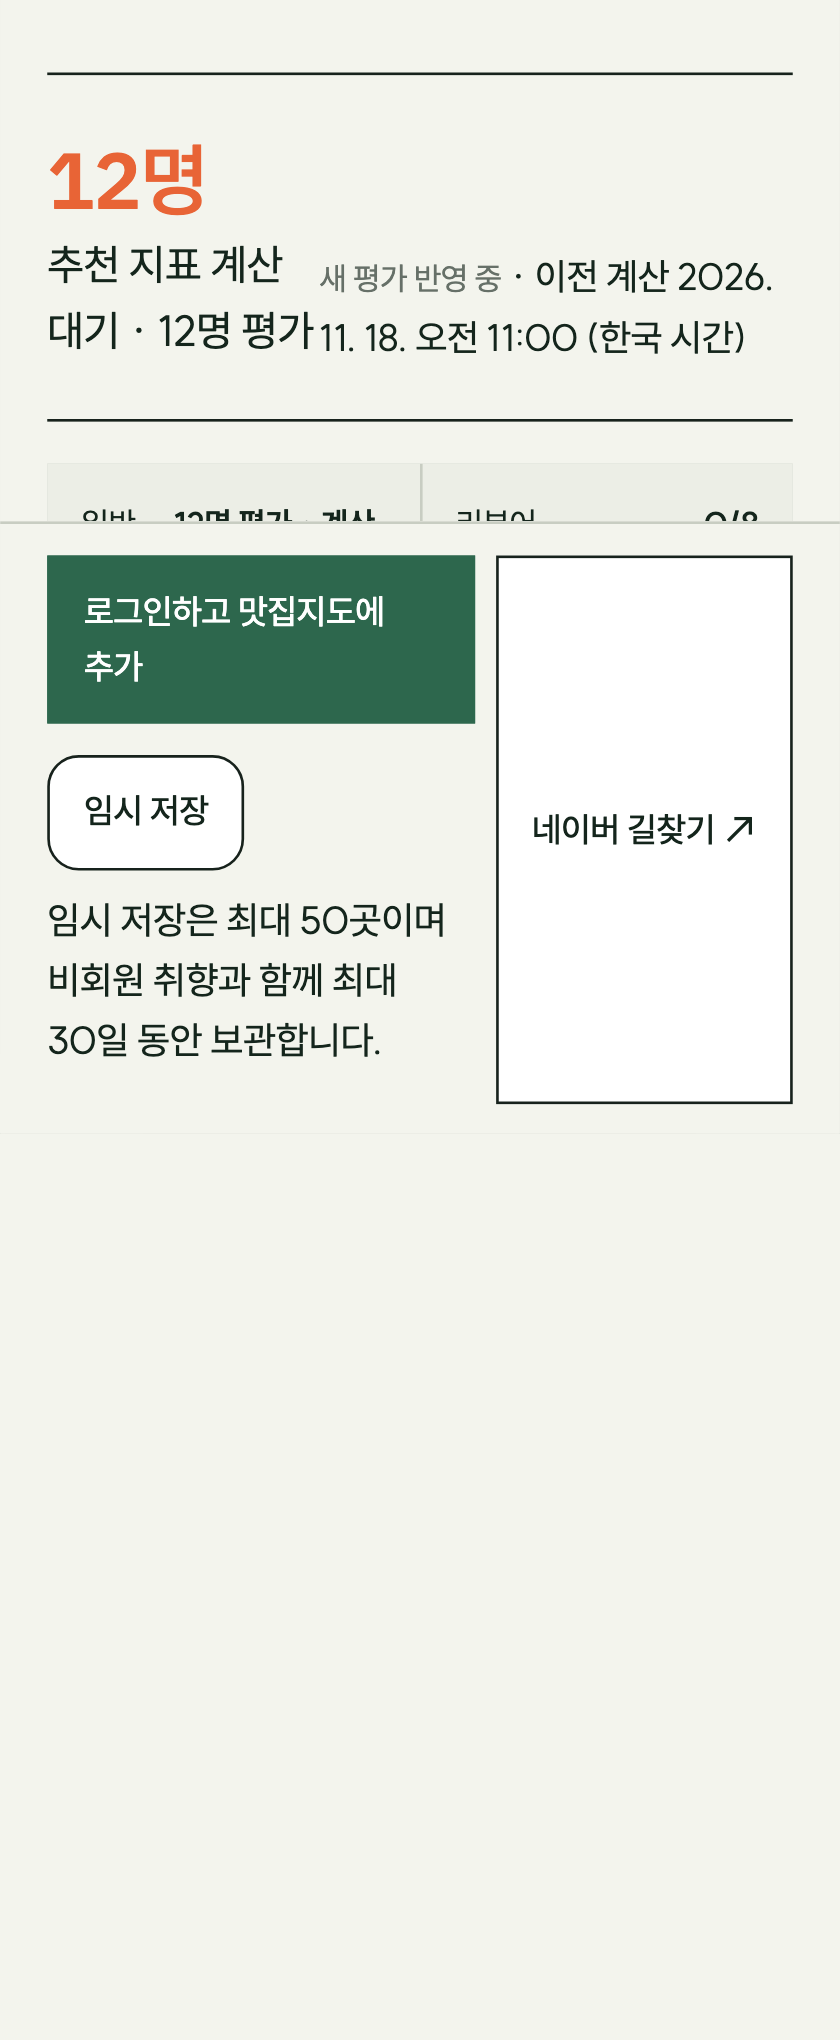
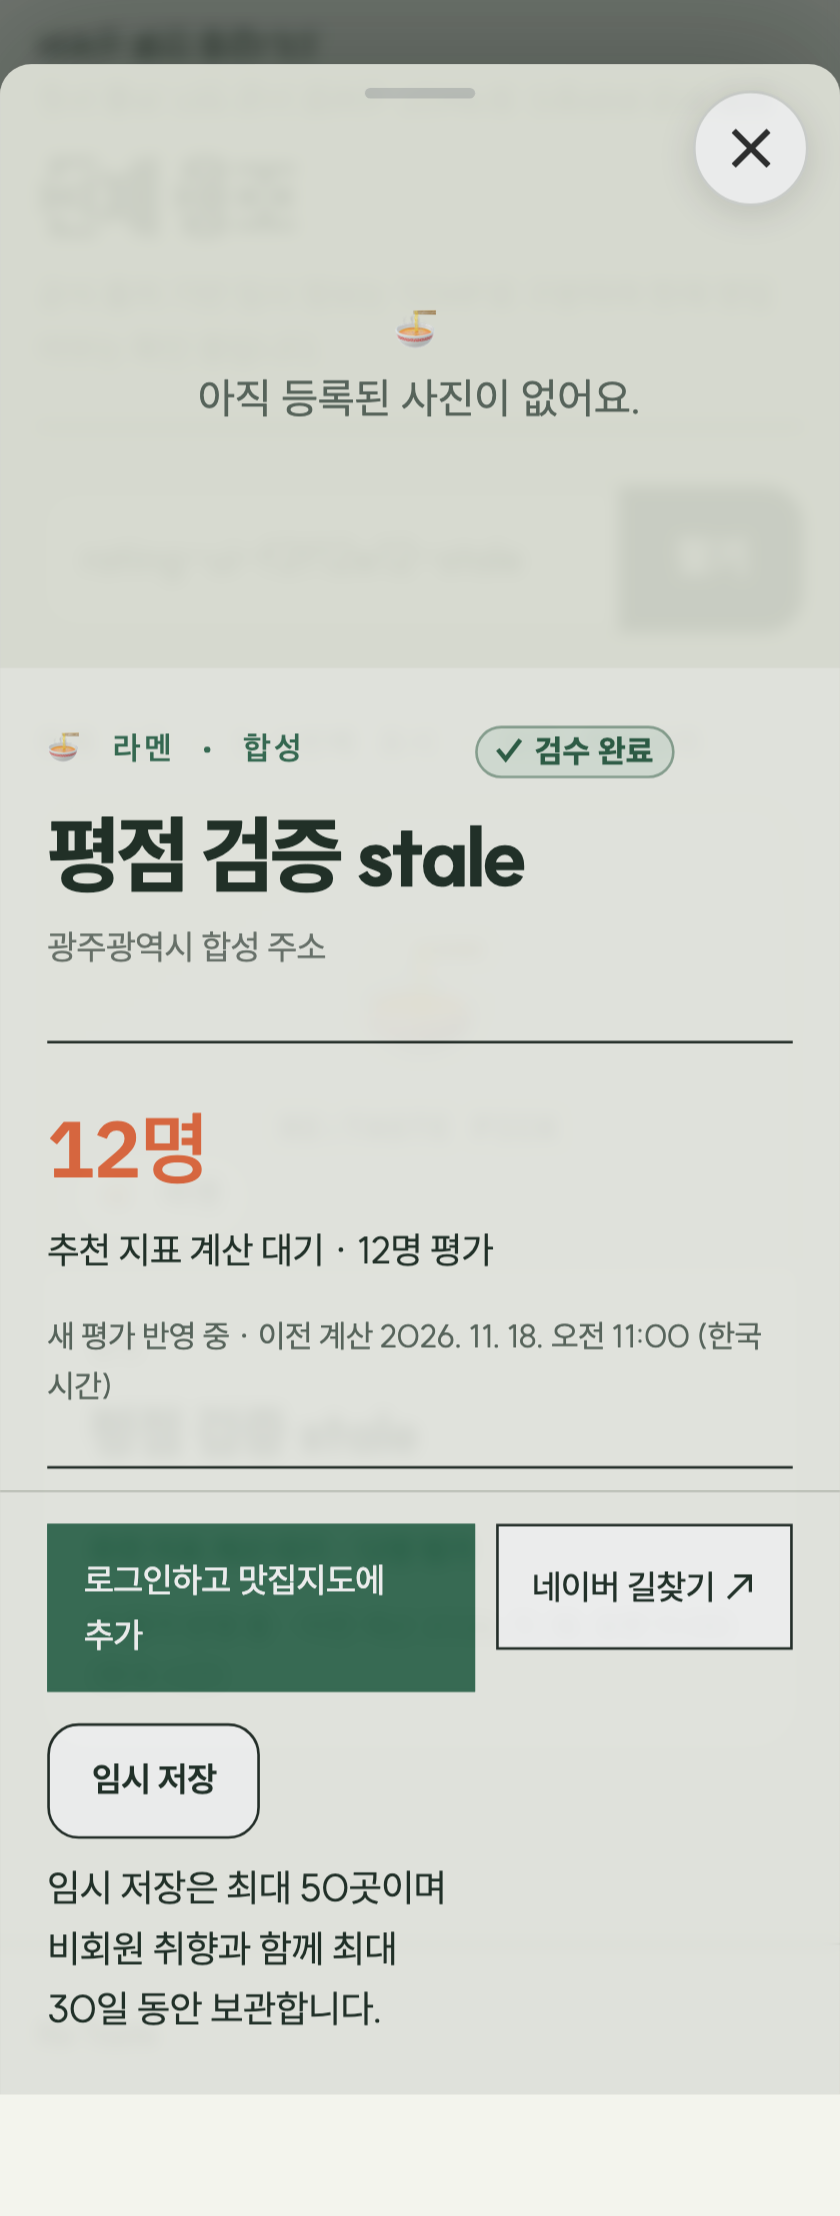
fix(ui): clarify rating evidence and paginated page identity
Keep rating summaries and actual calculation times readable on mobile,
reduce empty photo space, and correct measured text contrast. Preserve
only validated page numbers in canonical URLs and exclude filtered or
out-of-range result pages from indexing.

diff --git a/tests/e2e/public-rating-summary.spec.ts b/tests/e2e/public-rating-summary.spec.ts
@@ -60,8 +60,10 @@ test("card, map, sheet and detail share current, stale and missing rating states
       await expect(sheet.locator(".public-rating-summary")).toHaveText(state.summary);
       await expect(sheet.locator("time")).toContainText(state.time);
       await expect(sheet.locator(".place-detail-sheet__hero")).toHaveAttribute("data-has-photo", "false");
+      expect((await sheet.locator(".place-detail-sheet__actions > a").boundingBox())!.height).toBeLessThanOrEqual(75);
       expect(await page.evaluate(() => document.documentElement.scrollWidth <= innerWidth)).toBe(true);
-      await sheet.screenshot({ path: `docs/evidence/2026-11-18-rating-${state.suffix}-sheet-320.png` });
+      await sheet.evaluate(node => { node.scrollTop = 0; });
+      await page.screenshot({ path: `docs/evidence/2026-11-18-rating-${state.suffix}-sheet-320.png` });
       await page.getByRole("button", { name: "상세 정보 닫기" }).click();
     }
 
@@ -77,6 +79,10 @@ test("card, map, sheet and detail share current, stale and missing rating states
     await expect(page.locator(".score time")).toContainText(state.time);
     await expect(page.locator(".detail-hero")).toHaveAttribute("data-has-photo", "false");
     await expect(page.locator(".detail-hero")).toContainText("아직 등록된 사진이 없어요.");
+    if (mobile) expect((await page.locator(".detail-hero").boundingBox())!.height).toBeLessThanOrEqual(221);
+    const score = (await page.locator(".score").boundingBox())!;
+    const metadata = (await page.locator(".score .public-rating-meta").boundingBox())!;
+    expect(metadata.x + metadata.width).toBeLessThanOrEqual(score.x + score.width + 1);
     if (state.stale) await expect(page.locator(".rating-breakdown")).not.toContainText("99%");
     expect(await page.evaluate(() => document.documentElement.scrollWidth <= innerWidth)).toBe(true);
     await page.screenshot({ path: `docs/evidence/2026-11-18-rating-${state.suffix}-${mobile ? "320" : "desktop"}.png`, fullPage: true });

diff --git a/tests/unit/public-metadata.test.ts b/tests/unit/public-metadata.test.ts
@@ -9,6 +9,24 @@ const place = {
   heroImageUrl: "https://unverified.example/photo.jpg",
 };
 
+it("keeps page identities bounded and makes filtered listings non-indexable", async () => {
+  const { meta } = await import("../../app/routes/place-list");
+  const base = { publicOrigin: "https://public.example", pagination: { page: 2 }, search: "?page=2" };
+  const page = meta({ loaderData: base } as never);
+  expect(page).toContainEqual({ title: "맛집 리스트 · 2페이지 — Re:Taste" });
+  expect(page).toContainEqual({ tagName: "link", rel: "canonical", href: "https://public.example/places?page=2" });
+  expect(page.some(item => "name" in item && item.name === "robots")).toBe(false);
+  expect(meta({ loaderData: { ...base, search: "?page=2&q=라멘" } } as never)).toContainEqual({ name: "robots", content: "noindex,follow" });
+  expect(meta({ loaderData: { ...base, search: "?badge=&badge=food-ramen" } } as never)).toContainEqual({ name: "robots", content: "noindex,follow" });
+  const missing = meta({ loaderData: { ...base, pagination: { page: 999999, outOfRange: true }, search: "?page=999999" } } as never);
+  expect(missing).toContainEqual({ name: "robots", content: "noindex,follow" });
+  expect(missing).toContainEqual({ tagName: "link", rel: "canonical", href: "https://public.example/places" });
+  for (const page of [0, -1, Number.NaN, 2.5]) {
+    expect(publicPageMeta({ title: "t", description: "d", path: "/places?untrusted=1", origin: base.publicOrigin, page }))
+      .toContainEqual({ tagName: "link", rel: "canonical", href: "https://public.example/places" });
+  }
+});
+
 it("uses the public place name rather than its technical slug for share metadata", async () => {
   const { meta } = await import("../../app/routes/place-detail");
   const result = meta({ params: { placeSlug: place.slug }, loaderData: { place, publicOrigin: "https://public.example" } } as never);

diff --git a/app/features/places/public-metadata.ts b/app/features/places/public-metadata.ts
@@ -23,18 +23,19 @@ export function resolvePublicOrigin(requestUrl: string, appBaseUrl?: string | nu
   return null;
 }
 
-function canonicalPublicUrl(path: string, origin?: string | null): string | null {
+function canonicalPublicUrl(path: string, origin?: string | null, page?: number): string | null {
   if (!origin || !path.startsWith("/") || path.startsWith("//") || /[\\\u0000-\u001f]/u.test(path)) return null;
   const trusted = resolvePublicOrigin("", origin);
   if (!trusted) return null;
   const url = new URL(path, trusted);
   if (url.origin !== trusted) return null;
   url.search = "";
+  if (url.pathname === "/places" && page && Number.isSafeInteger(page) && page > 1) url.searchParams.set("page", String(page));
   url.hash = "";
   return url.href;
 }
 
-export function publicPageMeta(input: { title: string; description: string; path: string; origin?: string | null; noindex?: boolean }): MetaDescriptor[] {
+export function publicPageMeta(input: { title: string; description: string; path: string; origin?: string | null; noindex?: boolean; page?: number }): MetaDescriptor[] {
   const descriptors: MetaDescriptor[] = [
     { title: input.title },
     { name: "description", content: input.description },
@@ -43,7 +44,7 @@ export function publicPageMeta(input: { title: string; description: string; path
     { property: "og:type", content: "website" },
     { name: "twitter:card", content: "summary" },
   ];
-  const canonical = canonicalPublicUrl(input.path, input.origin);
+  const canonical = canonicalPublicUrl(input.path, input.origin, input.page);
   if (canonical) {
     descriptors.push({ tagName: "link", rel: "canonical", href: canonical }, { property: "og:url", content: canonical });
   }

diff --git a/app/styles/design-system.css b/app/styles/design-system.css
@@ -28,6 +28,7 @@
   --surface-card:#fff;
   --surface-soft:var(--atlas-forest-soft,#dfe9df);
   --color-ink:var(--atlas-ink,#17221c);
+  --color-ink-muted:#526056;
   --color-accent:var(--atlas-forest,#2d674d);
   --color-signal:var(--signal,#e7ff55);
   --color-line:var(--atlas-line,#c8cdc2);
@@ -1384,5 +1385,70 @@ small{
 
   .map-place-sheet__actions{
     padding-right:calc(var(--control-height) + var(--space-2));
+  }
+}
+
+.public-rating-summary{
+  margin:var(--space-2) 0 0;
+  font-size:.875rem;
+  line-height:var(--line-height-body);
+}
+
+.public-rating-meta{
+  display:block;
+  max-width:100%;
+  font-size:var(--font-size-label);
+  line-height:var(--line-height-body);
+  overflow-wrap:anywhere;
+  color:var(--color-ink-muted);
+}
+
+.public-rating-meta span{
+  color:inherit;
+}
+
+.discovery-heading > p,
+.course-context > small,
+.course-meal-group legend small,
+.course-meal-chip small,
+.member-empty > p,
+.member-connection-badges > span{
+  color:var(--color-ink-muted);
+}
+
+.score,
+.place-detail-sheet__score{
+  flex-wrap:wrap;
+  align-items:flex-start;
+  gap:var(--space-3);
+}
+
+.score > div,
+.place-detail-sheet__score > div{
+  min-width:0;
+  max-width:100%;
+}
+
+.score > .public-rating-meta,
+.place-detail-sheet__score > .public-rating-meta{
+  flex-basis:100%;
+}
+
+.detail-hero[data-has-photo="false"],
+.place-detail-sheet__hero[data-has-photo="false"]{
+  padding:var(--space-5);
+  font-size:1rem;
+  letter-spacing:normal;
+  text-align:center;
+  color:var(--color-ink-muted);
+}
+
+@media(max-width:760px){
+  .detail-hero[data-has-photo="false"]{
+    min-height:220px;
+  }
+
+  .place-detail-sheet__actions{
+    align-items:start;
   }
 }

diff --git a/app/routes/place-list.tsx b/app/routes/place-list.tsx
@@ -19,7 +19,11 @@ import { useEffect, useRef, useState } from "react";
 import { publicPageMeta, resolvePublicOrigin } from "../features/places/public-metadata";
 
 export function meta({ loaderData }: Route.MetaArgs) {
-  return publicPageMeta({ title: "맛집 리스트 — Re:Taste", description: "광주·전남의 장소를 취향과 평가 근거로 찾아보세요.", path: "/places", origin: loaderData?.publicOrigin, noindex: Boolean(loaderData?.tempOnly) });
+  const page = loaderData?.pagination?.page ?? 1;
+  const outOfRange = Boolean(loaderData?.pagination?.outOfRange);
+  const search = new URLSearchParams(loaderData?.search ?? "");
+  const filtered = ["q", "category", "badge", "bbox", "temp"].some(key => search.getAll(key).some(Boolean));
+  return publicPageMeta({ title: `맛집 리스트${page > 1 ? ` · ${page}페이지` : ""} — Re:Taste`, description: "광주·전남의 장소를 취향과 평가 근거로 찾아보세요.", path: "/places", origin: loaderData?.publicOrigin, noindex: Boolean(loaderData?.tempOnly || filtered || outOfRange), page: outOfRange ? 1 : page });
 }
 
 export async function loader({ request }: Route.LoaderArgs) {

diff --git a/tests/e2e/public-place-pagination.spec.ts b/tests/e2e/public-place-pagination.spec.ts
@@ -31,6 +31,9 @@ test("all 125 results are reachable and a new search returns to page one", async
   await expect(page.locator("#place-search-status")).toContainText("전체 125곳 · 101–125번째 표시");
   await expect(page.locator("#all-places")).toBeFocused();
   await expect(page.locator(".discovery-grid > article")).toHaveCount(25);
+  await expect(page).toHaveTitle("맛집 리스트 · 2페이지 — Re:Taste");
+  await expect(page.locator('link[rel="canonical"]')).toHaveAttribute("href", `${new URL(page.url()).origin}/places?page=2`);
+  await expect(page.locator('meta[name="robots"]')).toHaveAttribute("content", "noindex,follow");
   await expect(page.getByRole("link", { name: "다음 페이지", exact: true })).toHaveCount(0);
   await page.locator("#all-places").scrollIntoViewIfNeeded();
   await page.evaluate(() => document.fonts.ready);

diff --git a/tests/e2e/readability.spec.ts b/tests/e2e/readability.spec.ts
@@ -3,7 +3,7 @@ import { isControlledLocalBaseUrl } from "./local-test-target";
 
 test.skip(!isControlledLocalBaseUrl(), "Uses synthetic sessions on the loopback test Worker only");
 
-for (const width of [320, 390, 1440]) {
+for (const width of [320, 390, 768, 1440]) {
   test(`discovery text and filter targets remain readable at ${width}px`, async ({ page }) => {
     await page.setViewportSize({ width, height: 900 });
     await page.goto("/places");
